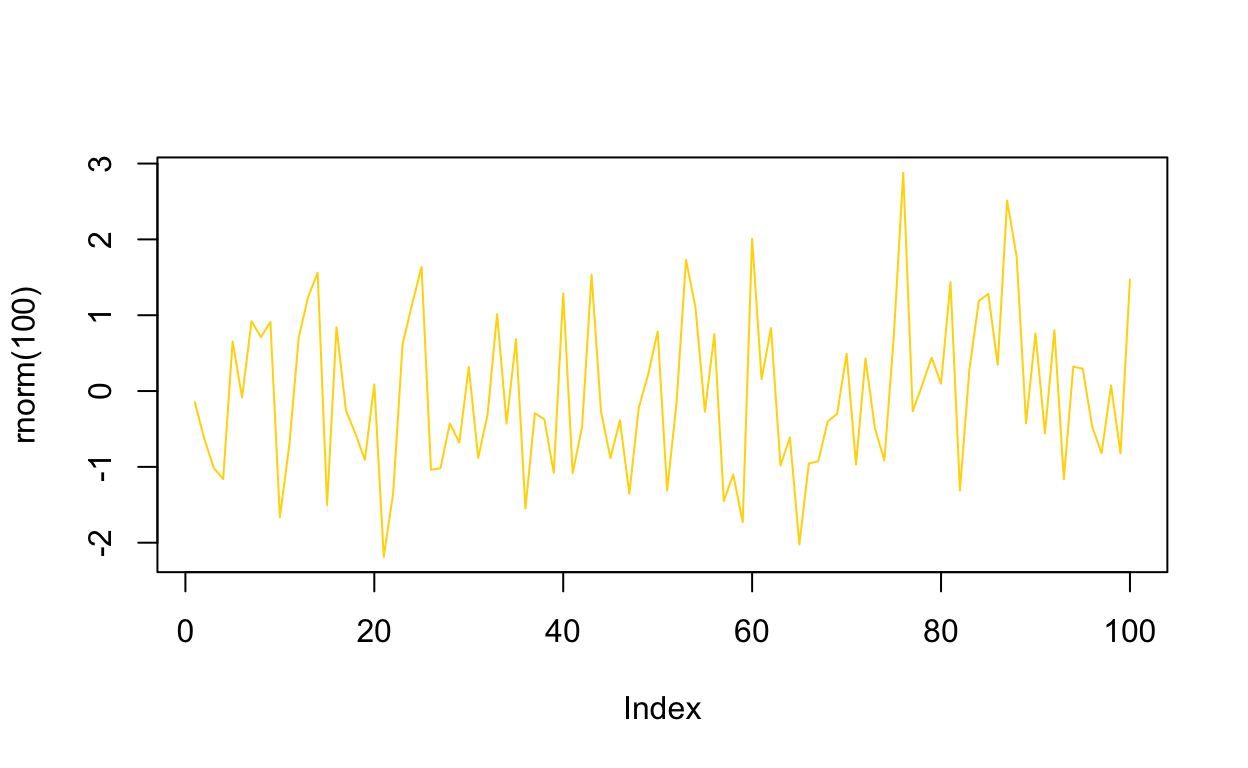
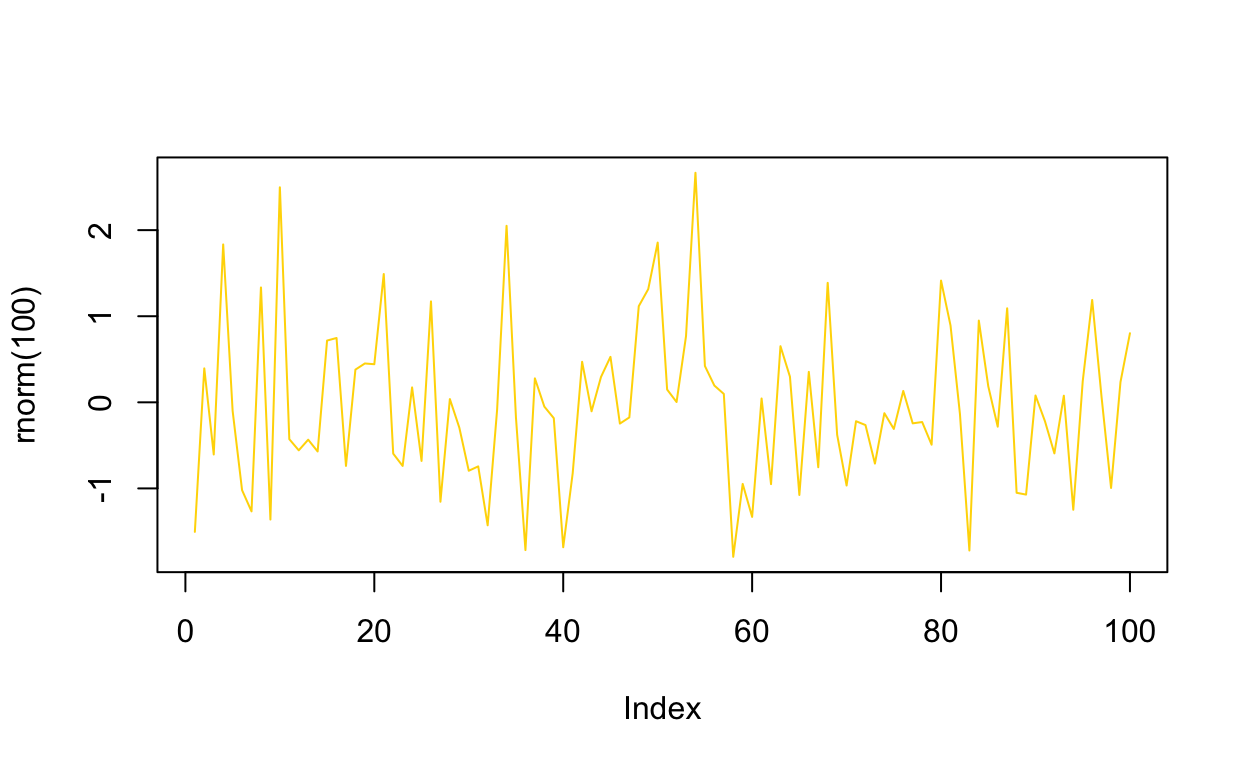
pagina actulizada

diff --git a/docs/SisDis.html b/docs/SisDis.html
@@ -2436,8 +2436,8 @@ en tiempo discreto</h2>
 <span class='fu'>DT</span><span class='fu'>::</span><span class='fu'><a href='https://rdrr.io/pkg/DT/man/datatable.html'>datatable</a></span><span class='op'>(</span><span class='va'>tabulacion</span><span class='op'>)</span>
 </code></pre>
 </div>
-<div id="htmlwidget-ad1ad7976f83609584d3" style="width:100%;height:auto;" class="datatables html-widget"></div>
-<script type="application/json" data-for="htmlwidget-ad1ad7976f83609584d3">{"x":{"filter":"none","vertical":false,"data":[["1","2","3","4","5","6","7"],[-2,-1,0,1,2,3,4],[4,2,1,0.5,0.25,0.125,0.0625]],"container":"<table class=\"display\">\n  <thead>\n    <tr>\n      <th> <\/th>\n      <th>x<\/th>\n      <th>y<\/th>\n    <\/tr>\n  <\/thead>\n<\/table>","options":{"columnDefs":[{"className":"dt-right","targets":[1,2]},{"orderable":false,"targets":0}],"order":[],"autoWidth":false,"orderClasses":false}},"evals":[],"jsHooks":[]}</script>
+<div id="htmlwidget-45e9cb30f40947612d1a" style="width:100%;height:auto;" class="datatables html-widget"></div>
+<script type="application/json" data-for="htmlwidget-45e9cb30f40947612d1a">{"x":{"filter":"none","vertical":false,"data":[["1","2","3","4","5","6","7"],[-2,-1,0,1,2,3,4],[4,2,1,0.5,0.25,0.125,0.0625]],"container":"<table class=\"display\">\n  <thead>\n    <tr>\n      <th> <\/th>\n      <th>x<\/th>\n      <th>y<\/th>\n    <\/tr>\n  <\/thead>\n<\/table>","options":{"columnDefs":[{"className":"dt-right","targets":[1,2]},{"orderable":false,"targets":0}],"order":[],"autoWidth":false,"orderClasses":false}},"evals":[],"jsHooks":[]}</script>
 </div>
 <div class="layout-chunk" data-layout="l-body">
 <div class="sourceCode">
@@ -2493,8 +2493,8 @@ en tiempo discreto</h2>
          yaxis <span class='op'>=</span>  <span class='fu'><a href='https://rdrr.io/r/base/list.html'>list</a></span><span class='op'>(</span>title <span class='op'>=</span> <span class='st'>"f(n)"</span><span class='op'>)</span><span class='op'>)</span>
 </code></pre>
 </div>
-<div id="htmlwidget-cc80cb91d566f1885414" style="width:624px;height:384px;" class="plotly html-widget"></div>
-<script type="application/json" data-for="htmlwidget-cc80cb91d566f1885414">{"x":{"visdat":{"a72d5f53f5c7":["function () ","plotlyVisDat"]},"cur_data":"a72d5f53f5c7","attrs":{"a72d5f53f5c7":{"x":{},"y":{},"mode":"lines","alpha_stroke":1,"sizes":[10,100],"spans":[1,20],"type":"scatter"}},"layout":{"margin":{"b":40,"l":60,"t":25,"r":10},"title":"Gráfica de la función en series de tiempo","xaxis":{"domain":[0,1],"automargin":true,"title":"n"},"yaxis":{"domain":[0,1],"automargin":true,"title":"f(n)"},"hovermode":"closest","showlegend":false},"source":"A","config":{"modeBarButtonsToAdd":["hoverclosest","hovercompare"],"showSendToCloud":false},"data":[{"x":[-2,-1,0,1,2,3,4],"y":[4,2,1,0.5,0.25,0.125,0.0625],"mode":"lines","type":"scatter","marker":{"color":"rgba(31,119,180,1)","line":{"color":"rgba(31,119,180,1)"}},"error_y":{"color":"rgba(31,119,180,1)"},"error_x":{"color":"rgba(31,119,180,1)"},"line":{"color":"rgba(31,119,180,1)"},"xaxis":"x","yaxis":"y","frame":null}],"highlight":{"on":"plotly_click","persistent":false,"dynamic":false,"selectize":false,"opacityDim":0.2,"selected":{"opacity":1},"debounce":0},"shinyEvents":["plotly_hover","plotly_click","plotly_selected","plotly_relayout","plotly_brushed","plotly_brushing","plotly_clickannotation","plotly_doubleclick","plotly_deselect","plotly_afterplot","plotly_sunburstclick"],"base_url":"https://plot.ly"},"evals":[],"jsHooks":[]}</script>
+<div id="htmlwidget-808f5fc73fd6fe784194" style="width:624px;height:384px;" class="plotly html-widget"></div>
+<script type="application/json" data-for="htmlwidget-808f5fc73fd6fe784194">{"x":{"visdat":{"b053269a2e4b":["function () ","plotlyVisDat"]},"cur_data":"b053269a2e4b","attrs":{"b053269a2e4b":{"x":{},"y":{},"mode":"lines","alpha_stroke":1,"sizes":[10,100],"spans":[1,20],"type":"scatter"}},"layout":{"margin":{"b":40,"l":60,"t":25,"r":10},"title":"Gráfica de la función en series de tiempo","xaxis":{"domain":[0,1],"automargin":true,"title":"n"},"yaxis":{"domain":[0,1],"automargin":true,"title":"f(n)"},"hovermode":"closest","showlegend":false},"source":"A","config":{"modeBarButtonsToAdd":["hoverclosest","hovercompare"],"showSendToCloud":false},"data":[{"x":[-2,-1,0,1,2,3,4],"y":[4,2,1,0.5,0.25,0.125,0.0625],"mode":"lines","type":"scatter","marker":{"color":"rgba(31,119,180,1)","line":{"color":"rgba(31,119,180,1)"}},"error_y":{"color":"rgba(31,119,180,1)"},"error_x":{"color":"rgba(31,119,180,1)"},"line":{"color":"rgba(31,119,180,1)"},"xaxis":"x","yaxis":"y","frame":null}],"highlight":{"on":"plotly_click","persistent":false,"dynamic":false,"selectize":false,"opacityDim":0.2,"selected":{"opacity":1},"debounce":0},"shinyEvents":["plotly_hover","plotly_click","plotly_selected","plotly_relayout","plotly_brushed","plotly_brushing","plotly_clickannotation","plotly_doubleclick","plotly_deselect","plotly_afterplot","plotly_sunburstclick"],"base_url":"https://plot.ly"},"evals":[],"jsHooks":[]}</script>
 </div>
 <h2 id="traslación-horizontal">Traslación horizontal</h2>
 <div class="layout-chunk" data-layout="l-body">
@@ -2531,8 +2531,8 @@ en tiempo discreto</h2>
 <span class='va'>fig</span>
 </code></pre>
 </div>
-<div id="htmlwidget-532d5e331d37899c56cc" style="width:624px;height:384px;" class="plotly html-widget"></div>
-<script type="application/json" data-for="htmlwidget-532d5e331d37899c56cc">{"x":{"visdat":{"a72d146cf21b":["function () ","plotlyVisDat"]},"cur_data":"a72d146cf21b","attrs":{"a72d146cf21b":{"x":{},"y":{},"mode":"lines+markers","name":"$f_t$","alpha_stroke":1,"sizes":[10,100],"spans":[1,20],"type":"scatter"},"a72d146cf21b.1":{"x":{},"y":{},"mode":"lines+markers","name":"$f_{t-1}$","alpha_stroke":1,"sizes":[10,100],"spans":[1,20],"type":"scatter","inherit":true},"a72d146cf21b.2":{"x":{},"y":{},"mode":"lines+markers","name":"$f_{t+1}$","alpha_stroke":1,"sizes":[10,100],"spans":[1,20],"type":"scatter","inherit":true}},"layout":{"margin":{"b":40,"l":60,"t":25,"r":10},"title":"Gráfica de la función y tralaciones horizontales","xaxis":{"domain":[0,1],"automargin":true,"title":"n"},"yaxis":{"domain":[0,1],"automargin":true,"title":"y"},"hovermode":"closest","showlegend":true},"source":"A","config":{"modeBarButtonsToAdd":["hoverclosest","hovercompare"],"showSendToCloud":false},"data":[{"x":[-2,-1,0,1,2,3,4],"y":[4,2,1,0.5,0.25,0.125,0.0625],"mode":"lines+markers","name":"$f_t$","type":"scatter","marker":{"color":"rgba(31,119,180,1)","line":{"color":"rgba(31,119,180,1)"}},"error_y":{"color":"rgba(31,119,180,1)"},"error_x":{"color":"rgba(31,119,180,1)"},"line":{"color":"rgba(31,119,180,1)"},"xaxis":"x","yaxis":"y","frame":null},{"x":[-1,0,1,2,3,4,5],"y":[4,2,1,0.5,0.25,0.125,0.0625],"mode":"lines+markers","name":"$f_{t-1}$","type":"scatter","marker":{"color":"rgba(255,127,14,1)","line":{"color":"rgba(255,127,14,1)"}},"error_y":{"color":"rgba(255,127,14,1)"},"error_x":{"color":"rgba(255,127,14,1)"},"line":{"color":"rgba(255,127,14,1)"},"xaxis":"x","yaxis":"y","frame":null},{"x":[-3,-2,-1,0,1,2,3],"y":[4,2,1,0.5,0.25,0.125,0.0625],"mode":"lines+markers","name":"$f_{t+1}$","type":"scatter","marker":{"color":"rgba(44,160,44,1)","line":{"color":"rgba(44,160,44,1)"}},"error_y":{"color":"rgba(44,160,44,1)"},"error_x":{"color":"rgba(44,160,44,1)"},"line":{"color":"rgba(44,160,44,1)"},"xaxis":"x","yaxis":"y","frame":null}],"highlight":{"on":"plotly_click","persistent":false,"dynamic":false,"selectize":false,"opacityDim":0.2,"selected":{"opacity":1},"debounce":0},"shinyEvents":["plotly_hover","plotly_click","plotly_selected","plotly_relayout","plotly_brushed","plotly_brushing","plotly_clickannotation","plotly_doubleclick","plotly_deselect","plotly_afterplot","plotly_sunburstclick"],"base_url":"https://plot.ly"},"evals":[],"jsHooks":[]}</script>
+<div id="htmlwidget-3f3fd1002502a1a4f056" style="width:624px;height:384px;" class="plotly html-widget"></div>
+<script type="application/json" data-for="htmlwidget-3f3fd1002502a1a4f056">{"x":{"visdat":{"b0534615d3ed":["function () ","plotlyVisDat"]},"cur_data":"b0534615d3ed","attrs":{"b0534615d3ed":{"x":{},"y":{},"mode":"lines+markers","name":"$f_t$","alpha_stroke":1,"sizes":[10,100],"spans":[1,20],"type":"scatter"},"b0534615d3ed.1":{"x":{},"y":{},"mode":"lines+markers","name":"$f_{t-1}$","alpha_stroke":1,"sizes":[10,100],"spans":[1,20],"type":"scatter","inherit":true},"b0534615d3ed.2":{"x":{},"y":{},"mode":"lines+markers","name":"$f_{t+1}$","alpha_stroke":1,"sizes":[10,100],"spans":[1,20],"type":"scatter","inherit":true}},"layout":{"margin":{"b":40,"l":60,"t":25,"r":10},"title":"Gráfica de la función y tralaciones horizontales","xaxis":{"domain":[0,1],"automargin":true,"title":"n"},"yaxis":{"domain":[0,1],"automargin":true,"title":"y"},"hovermode":"closest","showlegend":true},"source":"A","config":{"modeBarButtonsToAdd":["hoverclosest","hovercompare"],"showSendToCloud":false},"data":[{"x":[-2,-1,0,1,2,3,4],"y":[4,2,1,0.5,0.25,0.125,0.0625],"mode":"lines+markers","name":"$f_t$","type":"scatter","marker":{"color":"rgba(31,119,180,1)","line":{"color":"rgba(31,119,180,1)"}},"error_y":{"color":"rgba(31,119,180,1)"},"error_x":{"color":"rgba(31,119,180,1)"},"line":{"color":"rgba(31,119,180,1)"},"xaxis":"x","yaxis":"y","frame":null},{"x":[-1,0,1,2,3,4,5],"y":[4,2,1,0.5,0.25,0.125,0.0625],"mode":"lines+markers","name":"$f_{t-1}$","type":"scatter","marker":{"color":"rgba(255,127,14,1)","line":{"color":"rgba(255,127,14,1)"}},"error_y":{"color":"rgba(255,127,14,1)"},"error_x":{"color":"rgba(255,127,14,1)"},"line":{"color":"rgba(255,127,14,1)"},"xaxis":"x","yaxis":"y","frame":null},{"x":[-3,-2,-1,0,1,2,3],"y":[4,2,1,0.5,0.25,0.125,0.0625],"mode":"lines+markers","name":"$f_{t+1}$","type":"scatter","marker":{"color":"rgba(44,160,44,1)","line":{"color":"rgba(44,160,44,1)"}},"error_y":{"color":"rgba(44,160,44,1)"},"error_x":{"color":"rgba(44,160,44,1)"},"line":{"color":"rgba(44,160,44,1)"},"xaxis":"x","yaxis":"y","frame":null}],"highlight":{"on":"plotly_click","persistent":false,"dynamic":false,"selectize":false,"opacityDim":0.2,"selected":{"opacity":1},"debounce":0},"shinyEvents":["plotly_hover","plotly_click","plotly_selected","plotly_relayout","plotly_brushed","plotly_brushing","plotly_clickannotation","plotly_doubleclick","plotly_deselect","plotly_afterplot","plotly_sunburstclick"],"base_url":"https://plot.ly"},"evals":[],"jsHooks":[]}</script>
 </div>
 <h2 id="traslación-vertical">Traslación vertical</h2>
 <div class="layout-chunk" data-layout="l-body">
@@ -2563,8 +2563,8 @@ en tiempo discreto</h2>
 <span class='va'>fig</span>
 </code></pre>
 </div>
-<div id="htmlwidget-d6ff23e9961cab39a020" style="width:624px;height:384px;" class="plotly html-widget"></div>
-<script type="application/json" data-for="htmlwidget-d6ff23e9961cab39a020">{"x":{"visdat":{"a72d7eabd73a":["function () ","plotlyVisDat"]},"cur_data":"a72d7eabd73a","attrs":{"a72d7eabd73a":{"x":{},"y":{},"mode":"lines+markers","name":"$f_t$","alpha_stroke":1,"sizes":[10,100],"spans":[1,20],"type":"scatter"},"a72d7eabd73a.1":{"x":{},"y":{},"mode":"lines+markers","name":"$f_{t}+1$","alpha_stroke":1,"sizes":[10,100],"spans":[1,20],"type":"scatter","inherit":true},"a72d7eabd73a.2":{"x":{},"y":{},"mode":"lines+markers","name":"$f_{t}-1$","alpha_stroke":1,"sizes":[10,100],"spans":[1,20],"type":"scatter","inherit":true}},"layout":{"margin":{"b":40,"l":60,"t":25,"r":10},"title":"Gráfica de la función y traslaciones verticales","xaxis":{"domain":[0,1],"automargin":true,"title":"n"},"yaxis":{"domain":[0,1],"automargin":true,"title":"y"},"hovermode":"closest","showlegend":true},"source":"A","config":{"modeBarButtonsToAdd":["hoverclosest","hovercompare"],"showSendToCloud":false},"data":[{"x":[-2,-1,0,1,2,3,4],"y":[4,2,1,0.5,0.25,0.125,0.0625],"mode":"lines+markers","name":"$f_t$","type":"scatter","marker":{"color":"rgba(31,119,180,1)","line":{"color":"rgba(31,119,180,1)"}},"error_y":{"color":"rgba(31,119,180,1)"},"error_x":{"color":"rgba(31,119,180,1)"},"line":{"color":"rgba(31,119,180,1)"},"xaxis":"x","yaxis":"y","frame":null},{"x":[-2,-1,0,1,2,3,4],"y":[5,3,2,1.5,1.25,1.125,1.0625],"mode":"lines+markers","name":"$f_{t}+1$","type":"scatter","marker":{"color":"rgba(255,127,14,1)","line":{"color":"rgba(255,127,14,1)"}},"error_y":{"color":"rgba(255,127,14,1)"},"error_x":{"color":"rgba(255,127,14,1)"},"line":{"color":"rgba(255,127,14,1)"},"xaxis":"x","yaxis":"y","frame":null},{"x":[-2,-1,0,1,2,3,4],"y":[3,1,0,-0.5,-0.75,-0.875,-0.9375],"mode":"lines+markers","name":"$f_{t}-1$","type":"scatter","marker":{"color":"rgba(44,160,44,1)","line":{"color":"rgba(44,160,44,1)"}},"error_y":{"color":"rgba(44,160,44,1)"},"error_x":{"color":"rgba(44,160,44,1)"},"line":{"color":"rgba(44,160,44,1)"},"xaxis":"x","yaxis":"y","frame":null}],"highlight":{"on":"plotly_click","persistent":false,"dynamic":false,"selectize":false,"opacityDim":0.2,"selected":{"opacity":1},"debounce":0},"shinyEvents":["plotly_hover","plotly_click","plotly_selected","plotly_relayout","plotly_brushed","plotly_brushing","plotly_clickannotation","plotly_doubleclick","plotly_deselect","plotly_afterplot","plotly_sunburstclick"],"base_url":"https://plot.ly"},"evals":[],"jsHooks":[]}</script>
+<div id="htmlwidget-31a10b60eb4404ef91ae" style="width:624px;height:384px;" class="plotly html-widget"></div>
+<script type="application/json" data-for="htmlwidget-31a10b60eb4404ef91ae">{"x":{"visdat":{"b0536de63b5e":["function () ","plotlyVisDat"]},"cur_data":"b0536de63b5e","attrs":{"b0536de63b5e":{"x":{},"y":{},"mode":"lines+markers","name":"$f_t$","alpha_stroke":1,"sizes":[10,100],"spans":[1,20],"type":"scatter"},"b0536de63b5e.1":{"x":{},"y":{},"mode":"lines+markers","name":"$f_{t}+1$","alpha_stroke":1,"sizes":[10,100],"spans":[1,20],"type":"scatter","inherit":true},"b0536de63b5e.2":{"x":{},"y":{},"mode":"lines+markers","name":"$f_{t}-1$","alpha_stroke":1,"sizes":[10,100],"spans":[1,20],"type":"scatter","inherit":true}},"layout":{"margin":{"b":40,"l":60,"t":25,"r":10},"title":"Gráfica de la función y traslaciones verticales","xaxis":{"domain":[0,1],"automargin":true,"title":"n"},"yaxis":{"domain":[0,1],"automargin":true,"title":"y"},"hovermode":"closest","showlegend":true},"source":"A","config":{"modeBarButtonsToAdd":["hoverclosest","hovercompare"],"showSendToCloud":false},"data":[{"x":[-2,-1,0,1,2,3,4],"y":[4,2,1,0.5,0.25,0.125,0.0625],"mode":"lines+markers","name":"$f_t$","type":"scatter","marker":{"color":"rgba(31,119,180,1)","line":{"color":"rgba(31,119,180,1)"}},"error_y":{"color":"rgba(31,119,180,1)"},"error_x":{"color":"rgba(31,119,180,1)"},"line":{"color":"rgba(31,119,180,1)"},"xaxis":"x","yaxis":"y","frame":null},{"x":[-2,-1,0,1,2,3,4],"y":[5,3,2,1.5,1.25,1.125,1.0625],"mode":"lines+markers","name":"$f_{t}+1$","type":"scatter","marker":{"color":"rgba(255,127,14,1)","line":{"color":"rgba(255,127,14,1)"}},"error_y":{"color":"rgba(255,127,14,1)"},"error_x":{"color":"rgba(255,127,14,1)"},"line":{"color":"rgba(255,127,14,1)"},"xaxis":"x","yaxis":"y","frame":null},{"x":[-2,-1,0,1,2,3,4],"y":[3,1,0,-0.5,-0.75,-0.875,-0.9375],"mode":"lines+markers","name":"$f_{t}-1$","type":"scatter","marker":{"color":"rgba(44,160,44,1)","line":{"color":"rgba(44,160,44,1)"}},"error_y":{"color":"rgba(44,160,44,1)"},"error_x":{"color":"rgba(44,160,44,1)"},"line":{"color":"rgba(44,160,44,1)"},"xaxis":"x","yaxis":"y","frame":null}],"highlight":{"on":"plotly_click","persistent":false,"dynamic":false,"selectize":false,"opacityDim":0.2,"selected":{"opacity":1},"debounce":0},"shinyEvents":["plotly_hover","plotly_click","plotly_selected","plotly_relayout","plotly_brushed","plotly_brushing","plotly_clickannotation","plotly_doubleclick","plotly_deselect","plotly_afterplot","plotly_sunburstclick"],"base_url":"https://plot.ly"},"evals":[],"jsHooks":[]}</script>
 </div>
 <h2 id="funciones-trigonométricas-en-tiempo-discreto">Funciones
 trigonométricas en tiempo discreto</h2>
@@ -2592,8 +2592,8 @@ trigonométricas en tiempo discreto</h2>
 <span class='va'>fig</span>
 </code></pre>
 </div>
-<div id="htmlwidget-d158c90ab29d311c6dc0" style="width:624px;height:384px;" class="plotly html-widget"></div>
-<script type="application/json" data-for="htmlwidget-d158c90ab29d311c6dc0">{"x":{"visdat":{"a72d49ae3e21":["function () ","plotlyVisDat"]},"cur_data":"a72d49ae3e21","attrs":{"a72d49ae3e21":{"x":{},"y":{},"mode":"lines+markers","name":"función no periodica","alpha_stroke":1,"sizes":[10,100],"spans":[1,20],"type":"scatter"},"a72d49ae3e21.1":{"x":{},"y":{},"mode":"lines+markers","name":"función periodica","alpha_stroke":1,"sizes":[10,100],"spans":[1,20],"type":"scatter","inherit":true}},"layout":{"margin":{"b":40,"l":60,"t":25,"r":10},"title":"Gráfica","xaxis":{"domain":[0,1],"automargin":true,"title":"n"},"yaxis":{"domain":[0,1],"automargin":true,"title":"y"},"hovermode":"closest","showlegend":true},"source":"A","config":{"modeBarButtonsToAdd":["hoverclosest","hovercompare"],"showSendToCloud":false},"data":[{"x":[-10,-9,-8,-7,-6,-5,-4,-3,-2,-1,0,1,2,3,4,5,6,7,8,9,10],"y":[0.408082061813392,0.66031670824408,-0.957659480323385,0.136737218207834,0.843853958732492,-0.839071529076452,-0.145500033808614,0.960170286650366,-0.653643620863612,-0.416146836547142,1,-0.416146836547142,-0.653643620863612,0.960170286650366,-0.145500033808614,-0.839071529076452,0.843853958732492,0.136737218207834,-0.957659480323385,0.66031670824408,0.408082061813392],"mode":"lines+markers","name":"función no periodica","type":"scatter","marker":{"color":"rgba(31,119,180,1)","line":{"color":"rgba(31,119,180,1)"}},"error_y":{"color":"rgba(31,119,180,1)"},"error_x":{"color":"rgba(31,119,180,1)"},"line":{"color":"rgba(31,119,180,1)"},"xaxis":"x","yaxis":"y","frame":null},{"x":[-10,-9,-8,-7,-6,-5,-4,-3,-2,-1,0,1,2,3,4,5,6,7,8,9,10],"y":[-0.500000000000002,-1,-0.499999999999999,0.5,1,0.499999999999999,-0.5,-1,-0.5,0.5,1,0.5,-0.5,-1,-0.5,0.499999999999999,1,0.5,-0.499999999999999,-1,-0.500000000000002],"mode":"lines+markers","name":"función periodica","type":"scatter","marker":{"color":"rgba(255,127,14,1)","line":{"color":"rgba(255,127,14,1)"}},"error_y":{"color":"rgba(255,127,14,1)"},"error_x":{"color":"rgba(255,127,14,1)"},"line":{"color":"rgba(255,127,14,1)"},"xaxis":"x","yaxis":"y","frame":null}],"highlight":{"on":"plotly_click","persistent":false,"dynamic":false,"selectize":false,"opacityDim":0.2,"selected":{"opacity":1},"debounce":0},"shinyEvents":["plotly_hover","plotly_click","plotly_selected","plotly_relayout","plotly_brushed","plotly_brushing","plotly_clickannotation","plotly_doubleclick","plotly_deselect","plotly_afterplot","plotly_sunburstclick"],"base_url":"https://plot.ly"},"evals":[],"jsHooks":[]}</script>
+<div id="htmlwidget-2a4bd514ad60951696b7" style="width:624px;height:384px;" class="plotly html-widget"></div>
+<script type="application/json" data-for="htmlwidget-2a4bd514ad60951696b7">{"x":{"visdat":{"b0532e39e670":["function () ","plotlyVisDat"]},"cur_data":"b0532e39e670","attrs":{"b0532e39e670":{"x":{},"y":{},"mode":"lines+markers","name":"función no periodica","alpha_stroke":1,"sizes":[10,100],"spans":[1,20],"type":"scatter"},"b0532e39e670.1":{"x":{},"y":{},"mode":"lines+markers","name":"función periodica","alpha_stroke":1,"sizes":[10,100],"spans":[1,20],"type":"scatter","inherit":true}},"layout":{"margin":{"b":40,"l":60,"t":25,"r":10},"title":"Gráfica","xaxis":{"domain":[0,1],"automargin":true,"title":"n"},"yaxis":{"domain":[0,1],"automargin":true,"title":"y"},"hovermode":"closest","showlegend":true},"source":"A","config":{"modeBarButtonsToAdd":["hoverclosest","hovercompare"],"showSendToCloud":false},"data":[{"x":[-10,-9,-8,-7,-6,-5,-4,-3,-2,-1,0,1,2,3,4,5,6,7,8,9,10],"y":[0.408082061813392,0.66031670824408,-0.957659480323385,0.136737218207834,0.843853958732492,-0.839071529076452,-0.145500033808614,0.960170286650366,-0.653643620863612,-0.416146836547142,1,-0.416146836547142,-0.653643620863612,0.960170286650366,-0.145500033808614,-0.839071529076452,0.843853958732492,0.136737218207834,-0.957659480323385,0.66031670824408,0.408082061813392],"mode":"lines+markers","name":"función no periodica","type":"scatter","marker":{"color":"rgba(31,119,180,1)","line":{"color":"rgba(31,119,180,1)"}},"error_y":{"color":"rgba(31,119,180,1)"},"error_x":{"color":"rgba(31,119,180,1)"},"line":{"color":"rgba(31,119,180,1)"},"xaxis":"x","yaxis":"y","frame":null},{"x":[-10,-9,-8,-7,-6,-5,-4,-3,-2,-1,0,1,2,3,4,5,6,7,8,9,10],"y":[-0.500000000000002,-1,-0.499999999999999,0.5,1,0.499999999999999,-0.5,-1,-0.5,0.5,1,0.5,-0.5,-1,-0.5,0.499999999999999,1,0.5,-0.499999999999999,-1,-0.500000000000002],"mode":"lines+markers","name":"función periodica","type":"scatter","marker":{"color":"rgba(255,127,14,1)","line":{"color":"rgba(255,127,14,1)"}},"error_y":{"color":"rgba(255,127,14,1)"},"error_x":{"color":"rgba(255,127,14,1)"},"line":{"color":"rgba(255,127,14,1)"},"xaxis":"x","yaxis":"y","frame":null}],"highlight":{"on":"plotly_click","persistent":false,"dynamic":false,"selectize":false,"opacityDim":0.2,"selected":{"opacity":1},"debounce":0},"shinyEvents":["plotly_hover","plotly_click","plotly_selected","plotly_relayout","plotly_brushed","plotly_brushing","plotly_clickannotation","plotly_doubleclick","plotly_deselect","plotly_afterplot","plotly_sunburstclick"],"base_url":"https://plot.ly"},"evals":[],"jsHooks":[]}</script>
 </div>
 <h2 id="heaviside-y-delta-de-kronecker">Heaviside y delta de
 Kronecker</h2>
@@ -2749,8 +2749,8 @@ class="math display">\[a_2y[t+2]+a_{1}y[t+1]+a_0y[t]=b_2x[t+2]+b_{1}x[t+1]+b_0x[
 <span class='va'>fig</span>
 </code></pre>
 </div>
-<div id="htmlwidget-1f9bb53fd9e3c068d98f" style="width:624px;height:384px;" class="plotly html-widget"></div>
-<script type="application/json" data-for="htmlwidget-1f9bb53fd9e3c068d98f">{"x":{"visdat":{"a72d7625f60":["function () ","plotlyVisDat"]},"cur_data":"a72d7625f60","attrs":{"a72d7625f60":{"x":[0,1,2,3,4,5],"y":[3,7,23.5,78.75,254.375,800.1875],"mode":"lines+markers","alpha_stroke":1,"sizes":[10,100],"spans":[1,20],"type":"scatter"}},"layout":{"margin":{"b":40,"l":60,"t":25,"r":10},"title":"Solución para hasta t=5","xaxis":{"domain":[0,1],"automargin":true,"title":"t"},"yaxis":{"domain":[0,1],"automargin":true,"title":[]},"hovermode":"closest","showlegend":false},"source":"A","config":{"modeBarButtonsToAdd":["hoverclosest","hovercompare"],"showSendToCloud":false},"data":[{"x":[0,1,2,3,4,5],"y":[3,7,23.5,78.75,254.375,800.1875],"mode":"lines+markers","type":"scatter","marker":{"color":"rgba(31,119,180,1)","line":{"color":"rgba(31,119,180,1)"}},"error_y":{"color":"rgba(31,119,180,1)"},"error_x":{"color":"rgba(31,119,180,1)"},"line":{"color":"rgba(31,119,180,1)"},"xaxis":"x","yaxis":"y","frame":null}],"highlight":{"on":"plotly_click","persistent":false,"dynamic":false,"selectize":false,"opacityDim":0.2,"selected":{"opacity":1},"debounce":0},"shinyEvents":["plotly_hover","plotly_click","plotly_selected","plotly_relayout","plotly_brushed","plotly_brushing","plotly_clickannotation","plotly_doubleclick","plotly_deselect","plotly_afterplot","plotly_sunburstclick"],"base_url":"https://plot.ly"},"evals":[],"jsHooks":[]}</script>
+<div id="htmlwidget-341ec63b855a3edc78a2" style="width:624px;height:384px;" class="plotly html-widget"></div>
+<script type="application/json" data-for="htmlwidget-341ec63b855a3edc78a2">{"x":{"visdat":{"b053362c9920":["function () ","plotlyVisDat"]},"cur_data":"b053362c9920","attrs":{"b053362c9920":{"x":[0,1,2,3,4,5],"y":[3,7,23.5,78.75,254.375,800.1875],"mode":"lines+markers","alpha_stroke":1,"sizes":[10,100],"spans":[1,20],"type":"scatter"}},"layout":{"margin":{"b":40,"l":60,"t":25,"r":10},"title":"Solución para hasta t=5","xaxis":{"domain":[0,1],"automargin":true,"title":"t"},"yaxis":{"domain":[0,1],"automargin":true,"title":[]},"hovermode":"closest","showlegend":false},"source":"A","config":{"modeBarButtonsToAdd":["hoverclosest","hovercompare"],"showSendToCloud":false},"data":[{"x":[0,1,2,3,4,5],"y":[3,7,23.5,78.75,254.375,800.1875],"mode":"lines+markers","type":"scatter","marker":{"color":"rgba(31,119,180,1)","line":{"color":"rgba(31,119,180,1)"}},"error_y":{"color":"rgba(31,119,180,1)"},"error_x":{"color":"rgba(31,119,180,1)"},"line":{"color":"rgba(31,119,180,1)"},"xaxis":"x","yaxis":"y","frame":null}],"highlight":{"on":"plotly_click","persistent":false,"dynamic":false,"selectize":false,"opacityDim":0.2,"selected":{"opacity":1},"debounce":0},"shinyEvents":["plotly_hover","plotly_click","plotly_selected","plotly_relayout","plotly_brushed","plotly_brushing","plotly_clickannotation","plotly_doubleclick","plotly_deselect","plotly_afterplot","plotly_sunburstclick"],"base_url":"https://plot.ly"},"evals":[],"jsHooks":[]}</script>
 </div>
 <h2 id="tranformada-mathscrz">Tranformada <span
 class="math inline">\(\mathscr{Z}\)</span></h2>

diff --git a/docs/presentaciones/SisDis1.html b/docs/presentaciones/SisDis1.html
@@ -329,44 +329,44 @@
 <section id="section-1" class="slide level2">
 <h2></h2>
 
-<img data-src="./sisdis1/sisdis12.jpg" style="width:90.0%" class="r-stretch quarto-figure-center"></section>
+<img data-src="./sisdis1/sisdis12.JPG" style="width:90.0%" class="r-stretch quarto-figure-center"></section>
 <section id="section-2" class="slide level2">
 <h2></h2>
 
-<img data-src="./sisdis1/sisdis13.jpg" style="width:90.0%" class="r-stretch quarto-figure-center"></section>
+<img data-src="./sisdis1/sisdis13.JPG" style="width:90.0%" class="r-stretch quarto-figure-center"></section>
 <section id="section-3" class="slide level2">
 <h2></h2>
 
-<img data-src="./sisdis1/sisdis14.jpg" style="width:90.0%" class="r-stretch quarto-figure-center"></section>
+<img data-src="./sisdis1/sisdis14.JPG" style="width:90.0%" class="r-stretch quarto-figure-center"></section>
 <section id="section-4" class="slide level2">
 <h2></h2>
 
-<img data-src="./sisdis1/sisdis15.jpg" style="width:90.0%" class="r-stretch quarto-figure-center"></section>
+<img data-src="./sisdis1/sisdis15.JPG" style="width:90.0%" class="r-stretch quarto-figure-center"></section>
 <section id="section-5" class="slide level2">
 <h2></h2>
 
-<img data-src="./sisdis1/sisdis16.jpg" style="width:90.0%" class="r-stretch quarto-figure-center"></section>
+<img data-src="./sisdis1/sisdis16.JPG" style="width:90.0%" class="r-stretch quarto-figure-center"></section>
 <section id="section-6" class="slide level2">
 <h2></h2>
 
-<img data-src="./sisdis1/sisdis17.jpg" style="width:90.0%" class="r-stretch quarto-figure-center"></section>
+<img data-src="./sisdis1/sisdis17.JPG" style="width:90.0%" class="r-stretch quarto-figure-center"></section>
 <section id="section-7" class="slide level2">
 <h2></h2>
 
-<img data-src="./sisdis1/sisdis18.jpg" style="width:90.0%" class="r-stretch quarto-figure-center"></section>
+<img data-src="./sisdis1/sisdis18.JPG" style="width:90.0%" class="r-stretch quarto-figure-center"></section>
 <section id="section-8" class="slide level2">
 <h2></h2>
 
-<img data-src="./sisdis1/sisdis19.jpg" style="width:90.0%" class="r-stretch quarto-figure-center"></section>
+<img data-src="./sisdis1/sisdis19.JPG" style="width:90.0%" class="r-stretch quarto-figure-center"></section>
 <section id="section-9" class="slide level2">
 <h2></h2>
 
-<img data-src="./sisdis1/sisdis110.jpg" style="width:90.0%" class="r-stretch quarto-figure-center"></section>
+<img data-src="./sisdis1/sisdis110.JPG" style="width:90.0%" class="r-stretch quarto-figure-center"></section>
 <section id="section-10" class="slide level2">
 <h2></h2>
 <div class="quarto-figure quarto-figure-center">
 <figure>
-<p><img data-src="./sisdis1/sisdis111.jpg" style="width:90.0%"></p>
+<p><img data-src="./sisdis1/sisdis111.JPG" style="width:90.0%"></p>
 </figure>
 </div>
 <p><img src="./../imagenes/logoazul.png" class="slide-logo"></p>

diff --git a/docs/Distribuciones.html b/docs/Distribuciones.html
@@ -2462,7 +2462,7 @@ class="math inline">\(X\sim \mathcal{N}(0,1)\)</span></p>
 <pre class="sourceCode r"><code class="sourceCode r"><span class='fu'><a href='https://rdrr.io/r/base/print.html'>print</a></span><span class='op'>(</span><span class='fu'><a href='https://rdrr.io/r/stats/Normal.html'>rnorm</a></span><span class='op'>(</span><span class='fl'>5</span><span class='op'>)</span><span class='op'>)</span>
 </code></pre>
 </div>
-<pre><code>[1]  1.65185149 -1.03818402  1.59110569 -0.53071933  0.04820867</code></pre>
+<pre><code>[1]  1.3485164  0.1355727 -0.3743119 -0.9435971 -1.0551932</code></pre>
 </div>
 <p>Se realiza la gráfica de la función de densidad y de distribución</p>
 <div class="layout-chunk" data-layout="l-body">
@@ -2504,7 +2504,7 @@ class="math inline">\(X\sim \mathcal{N}(0,1)\)</span></p>
 <pre class="sourceCode r"><code class="sourceCode r"><span class='fu'><a href='https://rdrr.io/r/base/print.html'>print</a></span><span class='op'>(</span><span class='fu'><a href='https://rdrr.io/r/stats/Normal.html'>rnorm</a></span><span class='op'>(</span><span class='fl'>5</span>, mean <span class='op'>=</span> <span class='fl'>5</span>, sd <span class='op'>=</span> <span class='fl'>0.5</span><span class='op'>)</span><span class='op'>)</span>
 </code></pre>
 </div>
-<pre><code>[1] 4.629116 4.745812 5.400001 4.829165 4.752898</code></pre>
+<pre><code>[1] 4.374695 4.899896 5.671986 5.549554 5.044345</code></pre>
 </div>
 <p>Se realiza la gráfica de la función de densidad y de distribución</p>
 <div class="layout-chunk" data-layout="l-body">

diff --git a/docs/IntroR.html b/docs/IntroR.html
@@ -2813,7 +2813,7 @@ class="math display">\[S_n=\frac{5}{n\sqrt{2\pi}}\sum_{i=1}^ne^{-\frac{(5x_i-2.5
   <span class='va'>Sn</span>
   </code></pre>
 </div>
-<pre><code>[1] 0.9887948</code></pre>
+<pre><code>[1] 0.9688536</code></pre>
 </div>
 <h2 id="listas">Listas</h2>
 <ul>
